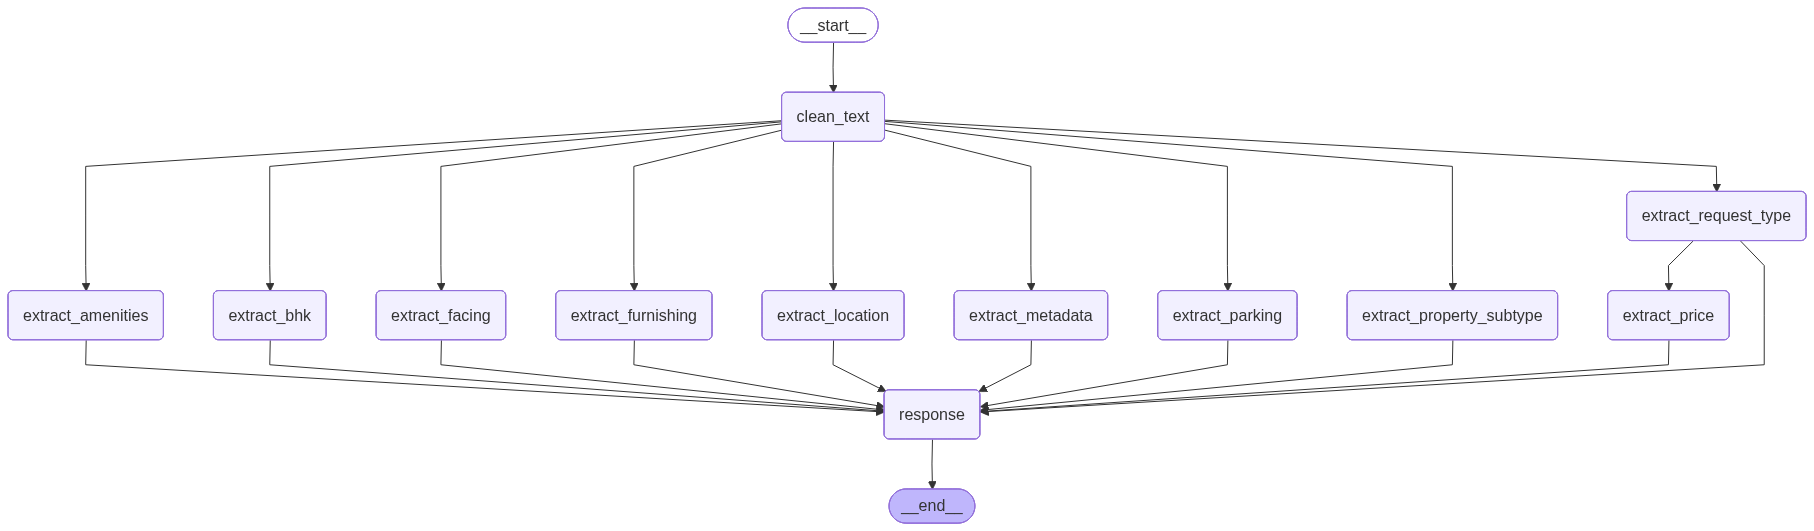
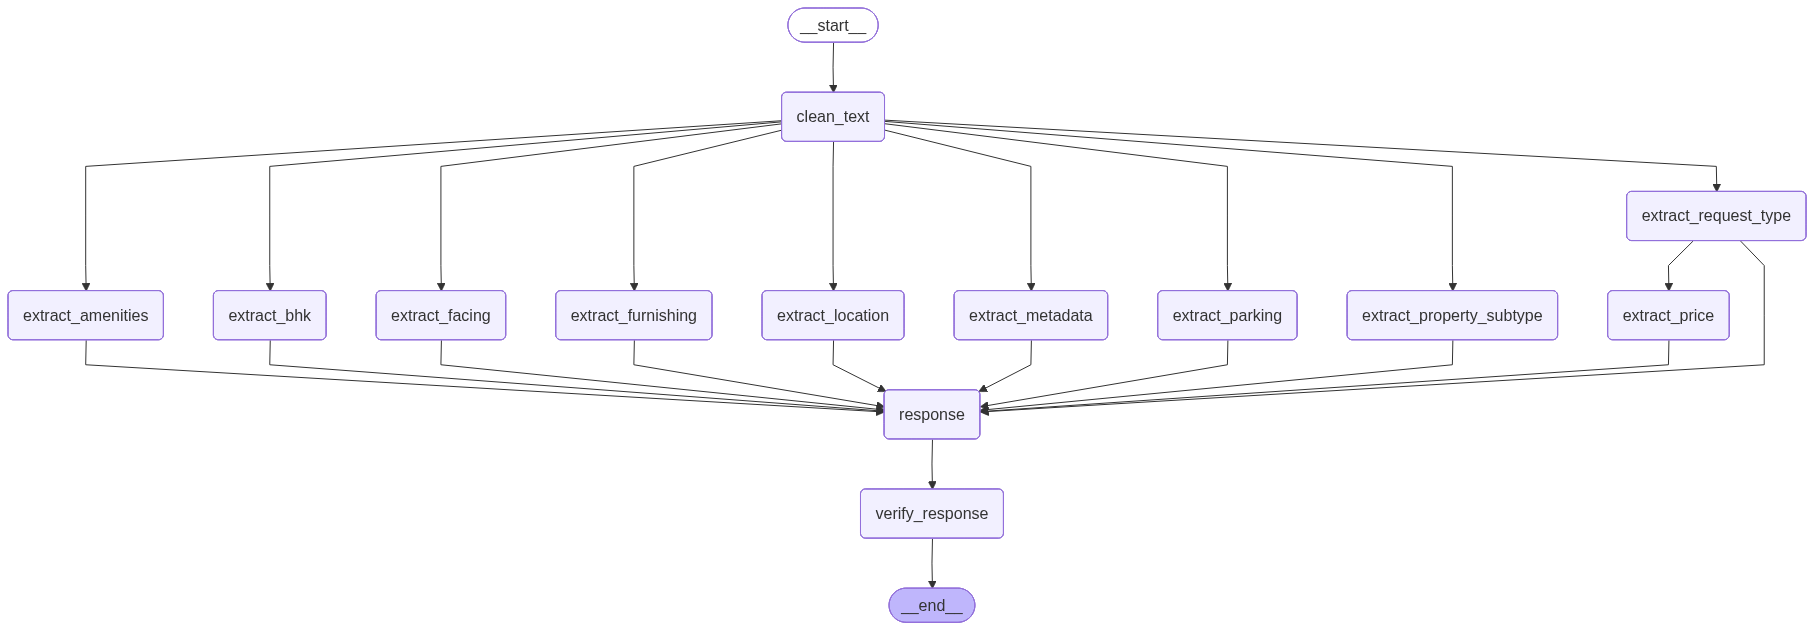
fully perect model with verification agent

diff --git a/bullshit/advance_extractor/verification_node.py b/bullshit/advance_extractor/verification_node.py
@@ -1,0 +1,56 @@
+from typing import Any
+
+from extractor.GraphState import GraphState
+
+
+def _count_missing_fields(response_output: dict[str, Any], required_fields: list[str]):
+    missing_fields = []
+    for field_name in required_fields:
+        if response_output.get(field_name) in (None, [], {}, ""):
+            missing_fields.append(field_name)
+    return missing_fields
+
+
+# ==========================================
+# MAIN AUDIT NODE
+# ==========================================
+
+def audit_verification_agent(state: GraphState):
+
+    response_output = state.get("response_output") or {}
+
+    if not isinstance(response_output, dict):
+        response_output = {}
+
+    missing_fields = _count_missing_fields(
+        response_output,
+        ["summary", "pricing", "location", "attributes", "parking", "amenities", "property", "metadata"]
+    )
+
+    audit_report = {
+        "is_valid": len(missing_fields) == 0,
+        "confidence_score": 100 if len(missing_fields) == 0 else 60,
+        "critical_issues": [
+            f"Missing top-level fields: {', '.join(missing_fields)}"
+        ] if missing_fields else [],
+        "minor_issues": [],
+        "hallucinated_fields": [],
+        "missed_fields": missing_fields,
+        "ambiguous_fields": [],
+        "field_analysis": {
+            field_name: {
+                "status": "missing" if field_name in missing_fields else "correct",
+                "reason": "Field not present in the final response" if field_name in missing_fields else "Field present in the final response",
+            }
+            for field_name in ["summary", "pricing", "location", "attributes", "parking", "amenities", "property", "metadata"]
+        },
+        "reasoning_summary": "Deterministic structural validation of the final response payload",
+    }
+
+    response_output = dict(response_output)
+    response_output["validation_report"] = audit_report
+
+    return {
+        "validation_report": audit_report,
+        "response_output": response_output,
+    }

diff --git a/bullshit/main.py b/bullshit/main.py
@@ -13,11 +13,13 @@ from extractor.amenities_extractor import extract_amenities
 from extractor.parking_extractor import extract_parking
 from extractor.property_subtype_extractor import extract_property_subtype
 from extractor.metadata_extractor import extract_metadata
+from advance_extractor.verification_node import audit_verification_agent
 builder = StateGraph(GraphState)
 builder.add_node("clean_text", clean_text_node)
 builder.add_node("extract_request_type", extract_type)
 builder.add_node("extract_bhk", extract_bhk)
 builder.add_node("response", response_node)
+builder.add_node("verify_response", audit_verification_agent)
 builder.add_node("extract_price", extract_price)
 builder.add_node("extract_location", extract_location)
 builder.add_node("extract_furnishing", extract_furnishing)
@@ -39,7 +41,8 @@ builder.add_edge("clean_text", "extract_amenities")
 builder.add_edge("clean_text", "extract_property_subtype")
 builder.add_edge("extract_request_type", "extract_price")
 builder.add_edge(["extract_request_type", "extract_bhk", "extract_price", "extract_location", "extract_furnishing", "extract_facing", "extract_parking", "extract_amenities", "extract_property_subtype", "extract_metadata"], "response")
-builder.add_edge("response", END)
+builder.add_edge("response", "verify_response")
+builder.add_edge("verify_response", END)
 
 graph = builder.compile()
 
@@ -60,6 +63,11 @@ CALL
 CONTACT PERSON SURESH"""
     })
     structured_output = result.get("response_output")
+    validation_report = result.get("validation_report")
 
     print("\nFinal Structured Output:")
     print(json.dumps(structured_output, indent=2, ensure_ascii=False))
+
+    if validation_report is not None:
+        print("\nValidation Report:")
+        print(json.dumps(validation_report, indent=2, ensure_ascii=False))

diff --git a/bullshit/extractor/Response.py b/bullshit/extractor/Response.py
@@ -27,8 +27,6 @@ def response_node(state: GraphState):
             "bhk": state.get("bhk"),
         },
         "pricing": {
-            "price_type": state.get("price_type"),
-            "detected_price_type": state.get("detected_price_type"),
             "price": _as_int(state.get("price")),
             "price_display": _format_inr(state.get("price")),
             "price_min": _as_int(state.get("price_min")),
@@ -64,6 +62,7 @@ def response_node(state: GraphState):
             "contact_numbers": state.get("contact_numbers"),
             "metadata_summary": state.get("metadata_summary"),
         },
+        "validation_report": state.get("validation_report"),
     }
 
     return {"response_output": output}

diff --git a/bullshit/extractor/price_extractor.py b/bullshit/extractor/price_extractor.py
@@ -156,17 +156,10 @@ def extract_price(state: GraphState):
     if not prices:
         detected_price_type = "unknown"
 
-    if request_type == "requirement":
-        price_type = "budget" if prices else "unknown"
-    else:
-        price_type = detected_price_type
-
     return {
         "price": price,
         "price_min": price_min,
         "price_max": price_max,
         "rent_price": rent_price,
         "deposit_price": deposit_price,
-        "price_type": price_type,
-        "detected_price_type": detected_price_type,
     }

diff --git a/bullshit/extractor/GraphState.py b/bullshit/extractor/GraphState.py
@@ -20,10 +20,6 @@ class GraphState(TypedDict):
     rent_price: Optional[int]
 
     deposit_price: Optional[int]
-
-    price_type: Optional[str]
-
-    detected_price_type: Optional[str]
     # location----------------------------------
     
     locations: Optional[list[str]]
@@ -37,6 +33,7 @@ class GraphState(TypedDict):
     facing: Optional[str]
     
     amenities: Optional[list[str]]
+    validation_report: Optional[dict[str, Any]]
 
     parking_count: Optional[int]
     property_subtype: Optional[str]
